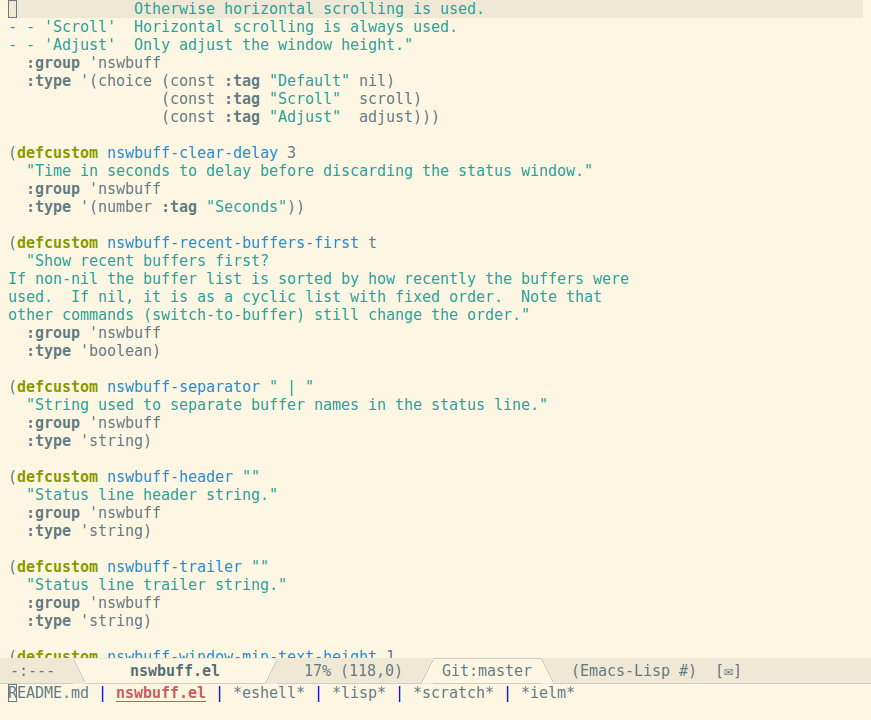
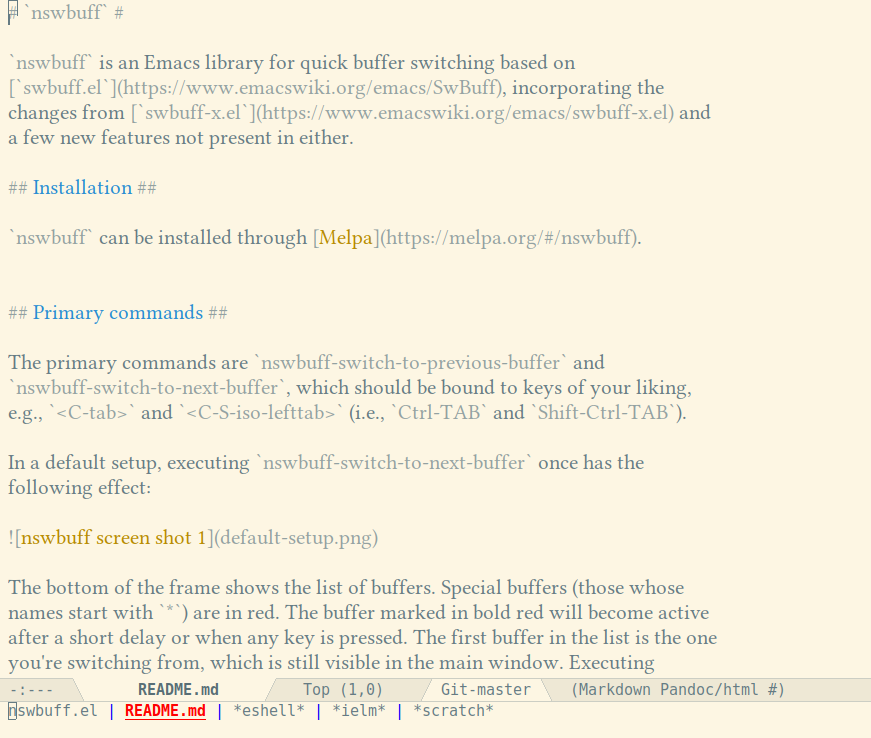
Update the README and the screen shots.

Changed region(s): [[0.0, 0.0, 0.899, 0.9778]]

diff --git a/README.md b/README.md
@@ -15,13 +15,13 @@ In a default setup, executing `nswbuff-switch-to-next-buffer` once has the follo
 
 ![nswbuff screen shot 1](default-setup.png)
 
-The bottom of the frame shows the list of buffers. Special buffers (those whose names start with `*`) are in red. The buffer marked in bold red will become active after a short delay or when any key is pressed. The first buffer in the list is the one you're switching from, which is still visible in the main window. Executing `nswbuff-switch-to-next-buffer` again will highlight the next buffer in the list (`*scratch*` in the screen shot).
+This screen shot shows a buffer switch from `nswbuff.el` to `README.md`. The bottom of the frame shows the list of buffers. Special buffers (those whose names start with `*`) are in red. The bold red, underlined buffer will become active when buffer switching ends. The first buffer in the list is the one you're switching from, which is still visible in the main window. Executing `nswbuff-switch-to-next-buffer` again will highlight the next buffer in the list (`*scratch*` in the screen shot).
 
-If you wish to make the intermediate buffers visible during cycling, you can set the option `nswbuff-display-intermediate-buffers` to `t`:
+Buffer switching ends automatically after a short delay, or when you press any key (other than the keys bound to `nswbuff-switch-to-next-buffer` and `nswbuff-switch-to-previous-buffer`, obviously). By default, during buffer switching, the initial buffer remains visible until buffer switching ends. If you wish to make the intermediate buffers visible during cycling, you can set the option `nswbuff-display-intermediate-buffers` to `t`:
 
 ![nswbuff screen shot 2](custom-setup.png)
 
-This screen shot also shows that the face and colors used for displaying the buffer names are fully customizable.
+This screen shot shows the same buffer switch, from `nswbuff.el` to `README.md`, but this time the `README.md` buffer is shown during switching. Executing `nswbuff-switch-to-next-buffer` would show the `*scratch*` buffer. Note that the screen shot also shows that the face and colors used for displaying the buffer names are fully customizable.
 
 
 ## Customizing the buffer list ##
